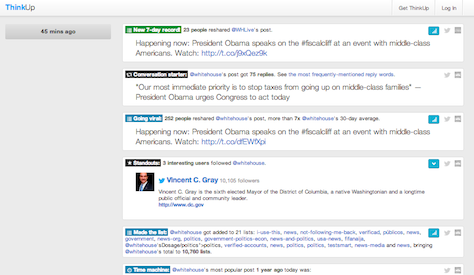
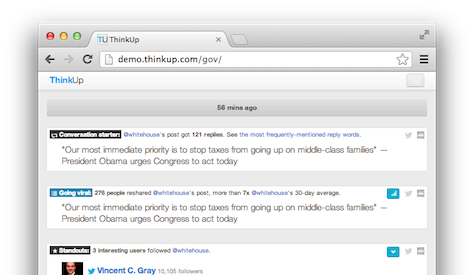
much-improved screenshot, copy fixes and shorten the page significantly.

diff --git a/index.html b/index.html
@@ -58,10 +58,13 @@ s.parentNode.insertBefore(po, s);
 					<ul class="sub">
 						<li><a href="#analyze">Analyze&nbsp;Trends</a></li>
 						<li><a href="#visualize">Visualize&nbsp;Data</a></li>
+						<!--
 						<li><a href="#connect">Connect</a></li>
 						<li><a href="#search">Search</a></li>
 						<li><a href="#publish">Publish</a></li>
 						<li><a href="#export">Export</a></li>
+						-->
+
 					</ul>
 				</li>
 				<li><a href="#community">Community</a>
@@ -82,7 +85,7 @@ s.parentNode.insertBefore(po, s);
 		    <div class="showcase-slide">
 		        <div class="showcase-content analytics">
 		            <div class="showcase-content-wrapper">
-		            	<h3>Get better at using your social networks in 2013.</h3>
+		            	<h3>Get better at using your social network.</h3>
     					<p>With ThinkUp you'll get the detailed insights you need to learn what's working, and what you can do even better.</p>
 		            </div>
 		        </div>
@@ -90,15 +93,15 @@ s.parentNode.insertBefore(po, s);
 		    <div class="showcase-slide">
 		        <div class="showcase-content control">
 		            <div class="showcase-content-wrapper">
-		            	<h3>Be ready the next time an app creeps you out.</h3>
-    					<p>With ThinkUp, your social activity is stored in a database that <strong>you control</strong>, so it's easy to search, sort, analyze, publish and display your content no matter what changes a service makes.</p>
+		            	<h3>Ready for when an app creeps you out.</h3>
+    					<p>Sick of social networks constantly changing their privacy policies and terms of service? With ThinkUp, your stuff is stored in a database that <strong>you control</strong>, so it's easy to search, sort, analyze, publish and display no matter what changes a service makes.</p>
 		            </div>
 		        </div>
 		    </div>
 		    <div class="showcase-slide">
 		        <div class="showcase-content github">
 		            <div class="showcase-content-wrapper">
-		            	<h3>Open Source.</h3>
+		            	<h3>Open source, but friendly!</h3>
     					<p>ThinkUp's open source community is very active and always accepting new contributors of all skill levels. And ThinkUp is <strong>free</strong>, both to use and to modify.</p>
     					<p>Join us on GitHub today!</p>
 		            </div>
@@ -111,7 +114,6 @@ s.parentNode.insertBefore(po, s);
     	<div class="row">
     		<div class="col4">
     			<p>ThinkUp is a <strong>free</strong>, open source web application that captures all your activity on social networks like Twitter, Facebook, Google+ and Foursquare. A great way to learn about ThinkUp is to <a href="http://demo.thinkup.com/gov/">see it in action</a>. This is what ThinkUp teaches <a href="http://demo.thinkup.com/gov/">the White House</a>, and <a href="http://demo.thinkup.com/media/">these are ThinkUp's insights</a> for folks like Steve Martin, Felicia Day, Jeff Jarvis and Leo Laporte.</p>
-    			<p>ThinkUp stores your social activity in a database that you control, and helps you make sense of that activity. All you need is a web server that can run a PHP application.</p>
     		</div>
     		<div class="col4">
     			<h3 id="download"><a href="http://thinkupapp.com/download/">Get ThinkUp<span>&raquo;</span></a></h3>
@@ -122,7 +124,8 @@ s.parentNode.insertBefore(po, s);
 				<a href="https://plus.google.com/109397312975756759279?prsrc=3" rel="publisher" style="display:inline;text-decoration:none;color:#333;text-align:center;font:13px/16px arial,sans-serif;white-space:nowrap;"><img src="https://ssl.gstatic.com/images/icons/gplus-16.png" alt="" style="border:0;width:16px;height:16px;"/><span style="display:inline;font-weight:bold;vertical-align:top;margin-right:5px;margin-top:0px;"> +1 ThinkUp</span></a>
     		</div>
     		<div class="col4">
-    			<p><iframe width="306" height="257" src="http://www.youtube.com/embed/PnVe9NYolDU?theme=light&amp;rel=0" frameborder="0" allowfullscreen></iframe></p>
+    			<p>ThinkUp stores your social activity in a database that you control, and helps you make sense of that activity. All you need is a web server that can run a PHP application.</p>
+    			
     		</div>
     		<div class="row-end"></div>
     	</div>
@@ -159,6 +162,7 @@ s.parentNode.insertBefore(po, s);
 			</div>
 			<div class="row-end">&nbsp;</div>
 		</div>
+		<!--
 		<div class="row">
 			<div class="col4">
 				<h3 id="connect" class="connect">Connect</h3>
@@ -169,6 +173,7 @@ s.parentNode.insertBefore(po, s);
 			</div>
 			<div class="row-end">&nbsp;</div>
 		</div>
+
 		<div class="row">
 			<div class="col4">
 				<h3 id="search" class="search">Search</h3>
@@ -184,6 +189,7 @@ s.parentNode.insertBefore(po, s);
 			</div>
 			<div class="row-end">&nbsp;</div>
 		</div>
+		-->
 		<div id="community" class="row">
 			<div class="col12">
 				<h3 class="community">Open Source</h3>
@@ -201,7 +207,7 @@ s.parentNode.insertBefore(po, s);
 			</div>
 			<div class="col4">
 				<h4>Purpose</h4>
-				<p>ThinkUp is designed to help everyone get more meaning out of their use of social networks. From the White House to ordinary citizens, anyone can use ThinkUp to gain insights through crowdsourcing.</p>
+				<p>ThinkUp is designed to help everyone get more meaning out of their use of social networks. From the White House to ordinary citizens, anyone can use ThinkUp to gain insights about the time they spend online.</p>
 			</div>
 			<div class="row-end"></div>
 		</div>

diff --git a/js/script.js b/js/script.js
@@ -10,7 +10,7 @@ $(document).ready(function()
         content_height: 300,
         auto: true,
         continuous: true,
-        interval: 5000,
+        interval: 6000,
         fit_to_parent: true,
         buttons: false,
         arrows: false
